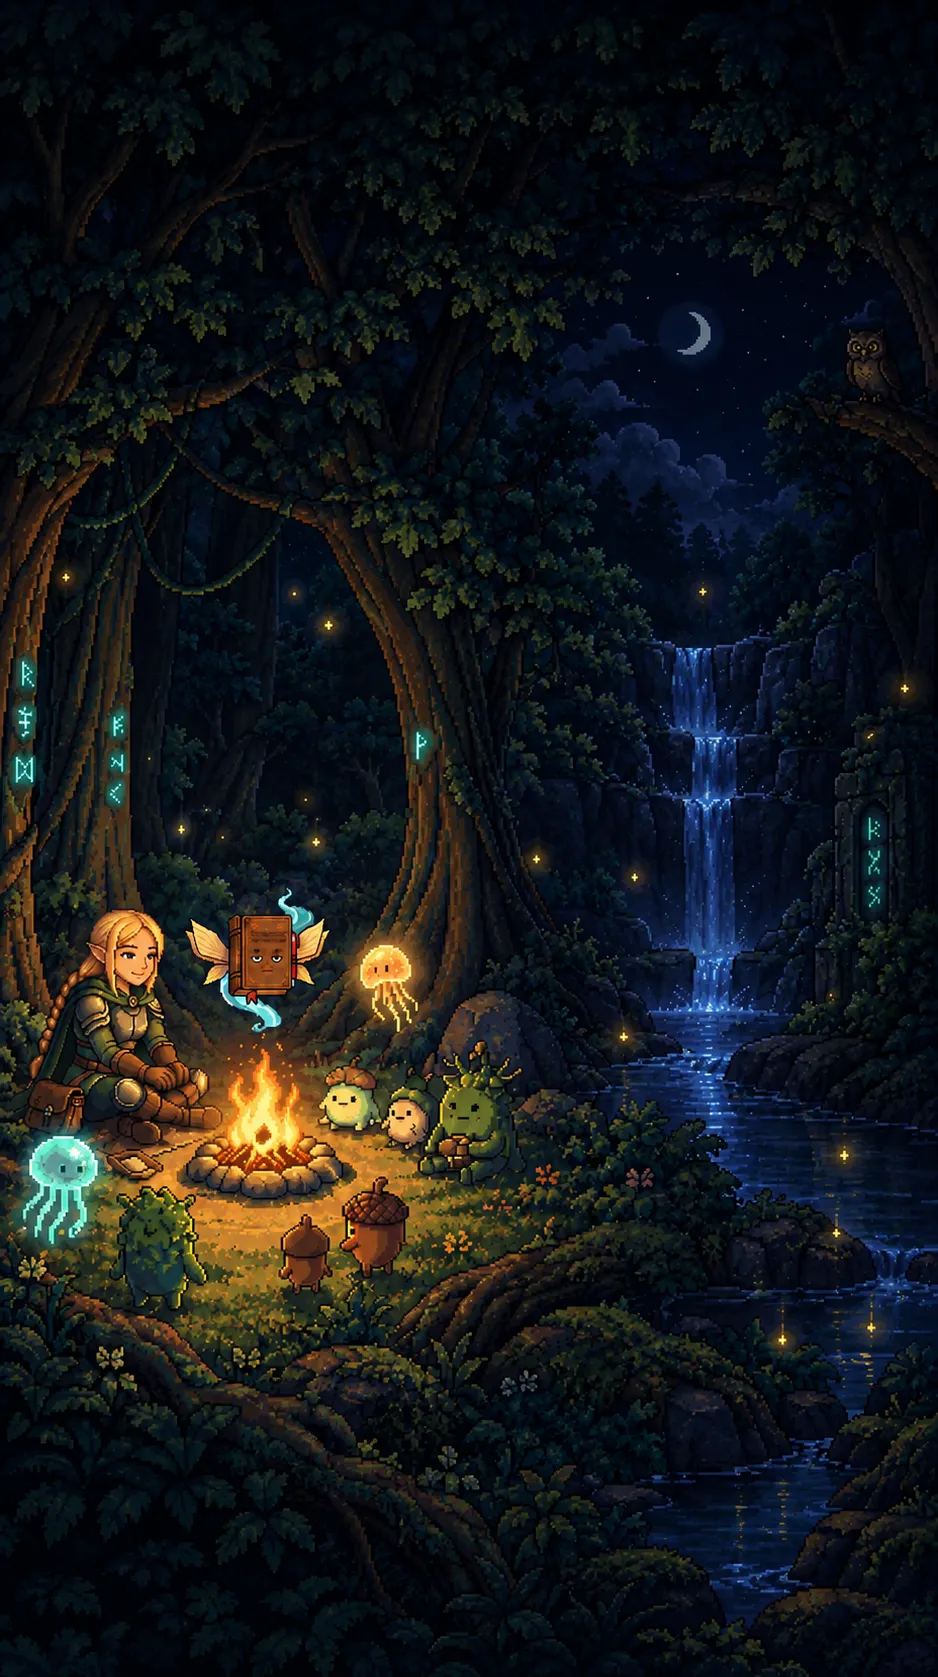
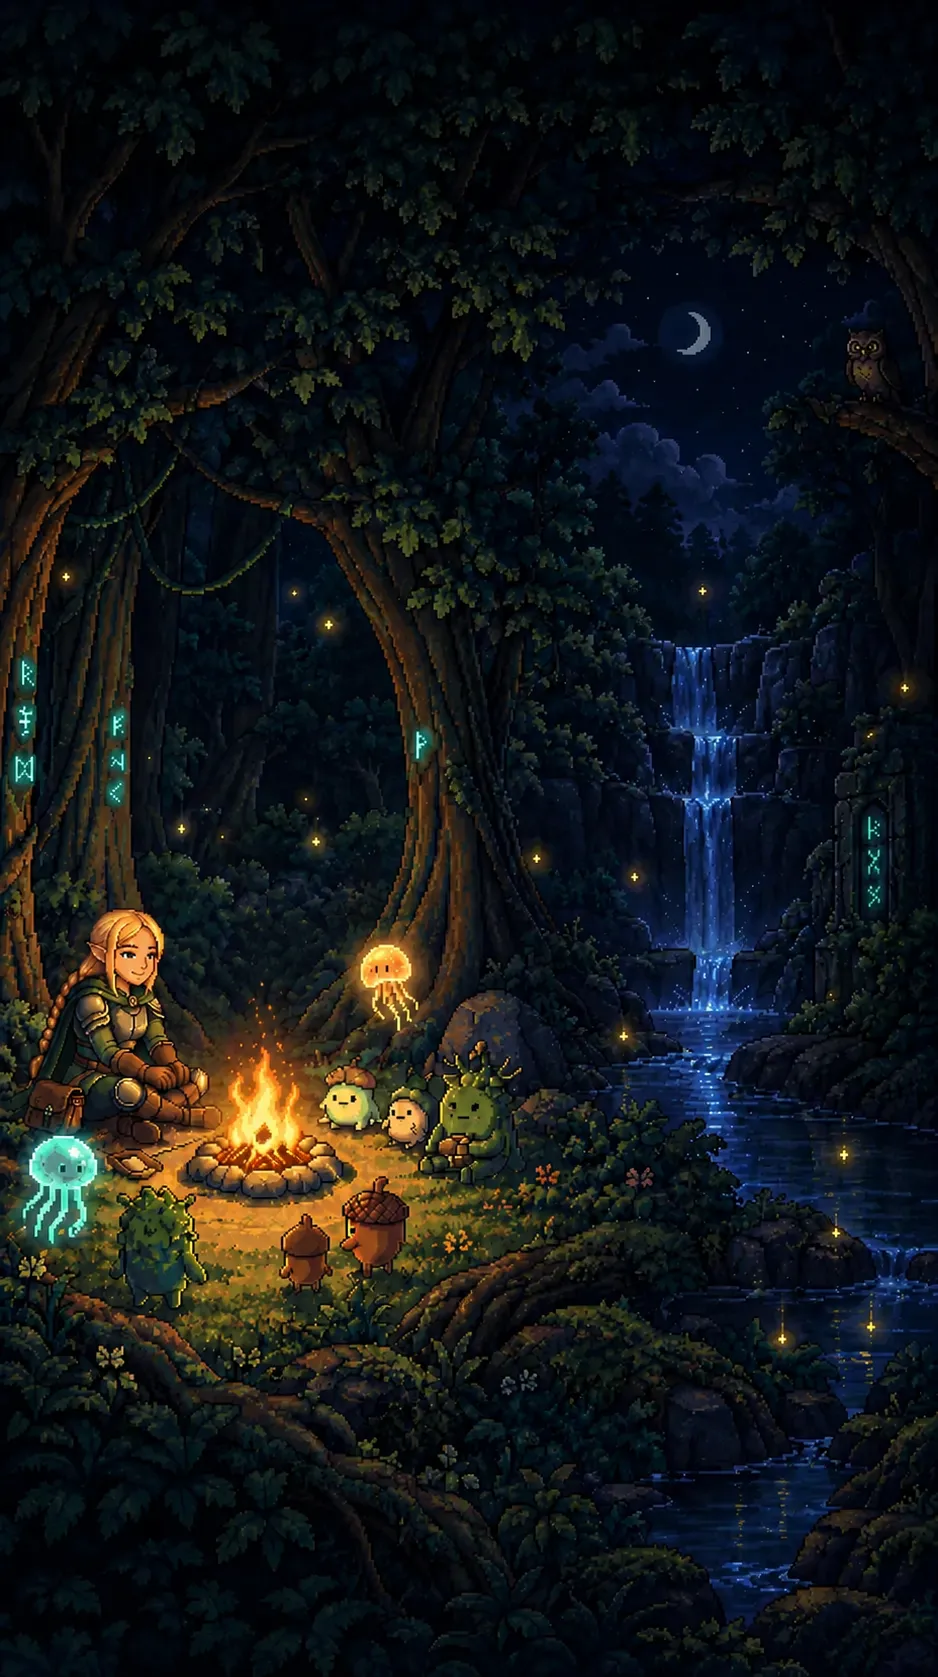
Add files via upload

diff --git a/index.html b/index.html
@@ -2397,6 +2397,120 @@
             }
         }
 
+        .camp-vignette-overlay {
+             position:absolute; top:0; left:0; right:0; bottom:0;
+             background:radial-gradient(circle at 35% 65%, transparent 25%, rgba(10,5,2,0.5) 70%, #080302 100%), linear-gradient(180deg, rgba(8,4,2,0.88) 0%, transparent 22%, transparent 70%, #080302 96%);
+             z-index:2; pointer-events:none;
+         }
+
+         /* 🔥 모닥불 실시간 일렁임 앰비언트 광원 */
+        .campfire-light-glow {
+            position: absolute;
+            /* 현재 이미지 속 모닥불의 실제 위치에 정확히 핀포인트 */
+            left: 31%;
+            top: 65%;
+            width: 140px;
+            height: 140px;
+            transform: translate(-50%, -50%);
+            border-radius: 50%;
+            /* 모닥불 중심은 밝은 노랑, 외곽은 은은한 주황/붉은 불꽃 */
+            background: radial-gradient(circle, rgba(254, 240, 138, 0.65) 0%, rgba(249, 115, 22, 0.45) 45%, rgba(220, 38, 38, 0.15) 70%, transparent 85%);
+            mix-blend-mode: screen; /* 배경 픽셀 아트 위에 자연스럽게 빛을 투과 */
+            pointer-events: none;
+            z-index: 3;
+            animation: fireFlicker 2.5s infinite ease-in-out;
+        }
+
+        /* 불꽃이 타닥타닥 타오르며 주변을 비추는 불규칙한 박동 */
+        @keyframes fireFlicker {
+            0%   { transform: translate(-50%, -50%) scale(0.95); opacity: 0.55; }
+            /* 20%  { transform: translate(-49%, -51%) scale(1.08); opacity: 0.85; } */
+            50%  { transform: translate(-51%, -50%) scale(1.15); opacity: 0.65; }
+            /* 80%  { transform: translate(-49%, -50%) scale(1.02); opacity: 0.70; } */
+            100% { transform: translate(-50%, -50%) scale(0.95); opacity: 0.55; }
+        }
+
+        /* ========================================================
+           📖 야영지 책 선생 마스코트 & 츤데레 말풍선 시스템
+           ======================================================== */
+        .camp-mrbook-container {
+            position: absolute;
+            right: 20px;
+            top: 5%; /* 현판 바로 아래, 스마트 버튼 위 */
+            z-index: 15;
+            display: flex;
+            flex-direction: column;
+            align-items: center;
+            cursor: pointer;
+            user-select: none;
+        }
+
+        /* 타이틀 책 선생 스프라이트 (날개를 파닥거리며 위아래로 부드럽게 부유하는 모션) */
+        .camp-mrbook-sprite {
+            width: 130px;
+            height: 130px;
+            object-fit: contain;
+            filter: drop-shadow(0 4px 10px rgba(0, 0, 0, 0.7)) drop-shadow(0 0 6px rgba(245, 158, 11, 0.4));
+            animation: mrBookHover 2.6s infinite ease-in-out;
+            transition: transform 0.15s ease;
+        }
+        .camp-mrbook-sprite:active {
+            transform: scale(0.88);
+        }
+
+        @keyframes mrBookHover {
+            0%, 100% { transform: translateY(0) rotate(0deg); }
+            50%      { transform: translateY(-7px) rotate(2deg); }
+        }
+
+        /* 탭했을 때 펄쩍 뛰는 탄성 애니메이션 */
+        .camp-mrbook-sprite.jump {
+            animation: mrBookJump 0.4s ease-out forwards;
+        }
+        @keyframes mrBookJump {
+            0%   { transform: translateY(0) scale(1); }
+            40%  { transform: translateY(-8px) scale(1.2) rotate(-5deg); }
+            70%  { transform: translateY(-2px) scale(0.95) rotate(3deg); }
+            100% { transform: translateY(0) scale(1) rotate(0deg); }
+        }
+
+        /* 📜 책 선생 전용 양피지 말풍선 */
+        .camp-mrbook-bubble {
+            display: none;
+            position: absolute;
+            right: 130px; /* 책 선생 왼쪽으로 돋아남 */
+            top: 30px;
+            width: 175px;
+            background: #fffbeb;
+            border: 2px solid #b45309;
+            border-radius: 12px;
+            padding: 8px 10px;
+            font-size: 12px;
+            font-weight: 800;
+            color: #451a03;
+            line-height: 1.4;
+            word-break: keep-all;
+            box-shadow: 0 4px 14px rgba(0, 0, 0, 0.7);
+            pointer-events: none;
+            animation: bubblePop 0.2s cubic-bezier(0.18, 0.89, 0.32, 1.28) forwards;
+        }
+        /* 말풍선 꼬리표 (오른쪽 책 선생을 향함) */
+        .camp-mrbook-bubble::after {
+            content: '';
+            position: absolute;
+            right: -8px;
+            top: 22px;
+            width: 0;
+            height: 0;
+            border-top: 6px solid transparent;
+            border-bottom: 6px solid transparent;
+            border-left: 8px solid #b45309;
+        }
+        @keyframes bubblePop {
+            0%   { opacity: 0; transform: scale(0.7) translateX(10px); }
+            100% { opacity: 1; transform: scale(1) translateX(0); }
+        }
+
     </style>
 </head>
 <body oncontextmenu="return false;" ondragstart="return false;">
@@ -2454,6 +2568,9 @@
             <!-- 🌌 9:16 세로 풀스크린 모닥불 배경 레이어 -->
             <div class="camp-bg-layer" style="position:absolute; top:0; left:0; right:0; bottom:0; background-image:url('images/title_fire.webp'); background-size:cover; background-position:left center; opacity:1; filter:none; z-index:1;"></div>
             <div class="camp-vignette-overlay" style="position:absolute; top:0; left:0; right:0; bottom:0; background:radial-gradient(circle at 35% 65%, transparent 25%, rgba(10,5,2,0.5) 70%, #080302 100%), linear-gradient(180deg, rgba(8,4,2,0.88) 0%, transparent 22%, transparent 70%, #080302 96%); z-index:2; pointer-events:none;"></div>
+
+            <!-- 🔥 모닥불 일렁임 광원 레이어 추가 -->
+            <div class="campfire-light-glow"></div>
 
             <!-- 캠프 콘텐츠 본체 -->
             <div class="camp-content" style="position:relative; z-index:5; width:100%; height:100%; display:flex; flex-direction:column; justify-content:space-between;">
@@ -2583,6 +2700,14 @@
 
                 <!-- 2. 중앙~우측: 🌟 2배 커진 5대 두루마리 & 9-Slice 세로 팝오버 영역 -->
                 <div class="mid-body-area" style="flex:1; position:relative; width:100%;">
+
+                    <!-- 📖 [마스코트] 둥둥 떠 있는 책 선생 & 츤데레 말풍선 -->
+                    <div class="camp-mrbook-container" onclick="triggerMrBookChat()">
+                        <img id="campMrBookSprite" class="camp-mrbook-sprite" src="images/mr.book_glitter.webp" alt="책 선생">
+                        <div id="campMrBookBubble" class="camp-mrbook-bubble">
+                            <span id="campMrBookText">야, 폰만 보지 말고 단어나 외워라!</span>
+                        </div>
+                    </div>
 
                     <!-- 팝오버 닫기용 투명 백드롭 -->
                     <div id="campPopBackdrop" class="popover-backdrop" onclick="closeCampPopovers()"></div>
@@ -4740,11 +4865,16 @@
         const maps = [];
         let currentMap = null;
 
+        let lastNetSetWords = null; // VS 직전 동의어 세트 임시 보관
+        let pendingVS = false;       // VS 대치 상태 플래그
+
         lines.forEach(line => {
             line = line.trim();
             if (!line) return;
 
             if (line.startsWith('[') && line.includes(']')) {
+                lastNetSetWords = null;
+                pendingVS = false;
                 let rawHeader = line.substring(1, line.indexOf(']')).trim();
                 let mapId = "";
                 let mapName = rawHeader;
@@ -4783,6 +4913,11 @@
             }
 
             if (currentMap) {
+                // 🌟 [net_ 영지 전용] <=> 반의어 대치 라인 단독 감지
+                if (line === '<=>') {
+                    pendingVS = true;
+                    return;
+                }
 
                 let eng = "", kor = "";
                 if (line.includes(':')) {
@@ -4797,13 +4932,48 @@
                 if (eng && kor) {
                     // 🌟 영지 ID에 'irreg'가 들어간 전용 맵에서만 형상변환 정령으로 정식 파싱!
                     const isIrregMap = currentMap.id && currentMap.id.toLowerCase().includes('irreg');
+                    // 🌟 영지 ID에 'net'이 들어간 전용 맵 감지!
+                    const isNetMap = currentMap.id && currentMap.id.toLowerCase().includes('net');
                     const parenMatch = eng.match(/(.*?)\s*\(([^)]+)\)\s*$/);
 
                     // 🌟 [다의어 감지] 뜻에 세미콜론(;)이 있으면 다의어로 분리 보관!
                     const isPoly = kor.includes(';');
                     const meanings = isPoly ? kor.split(';').map(s => s.trim()).filter(Boolean) : [];
 
-                    if (isIrregMap && parenMatch) {
+                    if (isNetMap) {
+                        // 콤마(,)로 나열된 동의어들을 각각 낱개 영단어로 분해
+                        const rawSynonyms = eng.split(',').map(s => s.trim()).filter(Boolean);
+                        const currentBatch = [];
+
+                        rawSynonyms.forEach(singleEng => {
+                            const wordItem = {
+                                eng: singleEng,
+                                kor: kor,
+                                isNet: true,
+                                synonyms: rawSynonyms.filter(s => s !== singleEng), // 나를 제외한 동의어들
+                                allSynonyms: rawSynonyms,                         // 전체 동의어 그룹
+                                antonyms: []                                      // 반의어 군집 (아래에서 매칭)
+                            };
+                            currentMap.words.push(wordItem);
+                            currentBatch.push(wordItem);
+                        });
+
+                        // 만약 직전에 VS가 있었다면 서로를 '반의어(antonyms)'로 양방향 연결!
+                        if (pendingVS && lastNetSetWords && lastNetSetWords.length > 0) {
+                            const prevEngs = lastNetSetWords.map(w => w.eng);
+                            const currEngs = currentBatch.map(w => w.eng);
+
+                            lastNetSetWords.forEach(w => { w.antonyms = currEngs; });
+                            currentBatch.forEach(w => { w.antonyms = prevEngs; });
+
+                            pendingVS = false;
+                            lastNetSetWords = null;
+                        } else {
+                            lastNetSetWords = currentBatch;
+                            pendingVS = false;
+                        }
+
+                    } else if (isIrregMap && parenMatch) {
                         const baseWord = parenMatch[1].trim();
                         const mutations = parenMatch[2].split(',').map(s => s.trim()).filter(Boolean);
                         currentMap.words.push({
@@ -9726,6 +9896,7 @@ function handleMidBossVictory() {
             "intro_book.webp",
             "intro_boss.webp",
             "intro_mr.book.webp",
+            "mr.book_glitter.webp",
             "intro_spirits.webp",
             "mr.book.webp",
             "mr.book_icon.webp",
@@ -9747,7 +9918,6 @@ function handleMidBossVictory() {
             "statusboard1.webp",
             "tier_up.webp",
             "title_fire.webp",
-            "title_fire2.webp",
             "world.webp"
         ];
         criticalImages.forEach(filename => {
@@ -10972,6 +11142,72 @@ function handleMidBossVictory() {
                 }
             }
         }, 150); // 창이 완전히 닫히는 0.15초 뒤에 깔끔하게 발음!
+    }
+
+    /* ========================================================
+       📖 책 선생 츤데레 대사 시스템 (야영지 탭 인터랙션)
+       ======================================================== */
+    const MR_BOOK_DIALOGUES = [
+        "야, 폰 보지 말고 단어나 외워라! ...아, 그럼 이 게임을 못 하나?",
+        "1등급이 거저 나오는 줄 아냐? 어서 다음 구역으로 가!",
+        "마왕 『EXAM』이 코웃음 치고 있다. 멍때리지 마라!",
+        "흠... 그래도 오늘은 좀 열심히 하네? 기특하긴 하다만, 방심은 금물이다.",
+        "안개 속에 갇힌 정령들은 방치하면 성소로 실려 간다. 틈틈이 구해둬!",
+        "키보드 1~4번 누르면 퀴즈가 광속으로 풀린다. 손가락을 쉬게 하지 마라!",
+        "내가 너 1등급 만들겠다고 이세계까지 따라왔다는 걸 잊지마!",
+        "틀린 단어는 정령의 성소에서 꼭 다시 살펴봐라. 실패도 거름이 되는 법이니까.",
+        "피곤하면 모닥불 앞에서 잠시 숨 돌리고... 자, 딱 5개만 더 보자!",
+        "꾸준한 공부. 그것만이 답이야. 꾸준히 해라!",
+        "정령들이 너한테 「진명의 각인」을 새겨줄 때까지 쉬지 않고 굴릴 거다, 각오해!",
+         "1.5초 만에 맞히면 '찰나의 공명'으로 즉시 계약 체결이다. 광속으로 골라봐!",
+         "헷갈리는 단어는 피드백 창에서 하트(💖) 꾹 눌러둬라. 성소에서 각 잡고 훈련시켜 줄 테니.",
+         "안개 속 구출전 3차까지 버텨내면 '진명의 각인'이 찍혀서 영원히 안 까먹는다!",
+         "거대 두루마리가 번쩍일 땐 이유가 있는 법이야. 군말 말고 눌러라!",
+         "구역을 정복했으면 수호령 시련까지 끝장내야 진짜 그 영지 마력을 흡수하는 거다.",
+         "포기하지마. 내가 옆에서 끝까지 멱살 잡고 1등급으로 캐리해 줄 테니까.",
+         "노력은 배신 안 한다. 내가 보증하지. 자, 다시 가자고!",
+         "'내일부터 해야지' 하는 녀석치고 내일 진짜 하는 꼴을 못 봤다.",
+         "손가락 아프다고? 실전에선 멘탈에 쥐가 난다. 멘탈 단련해라!",
+         "영어 3등급 맞고 울지 마라. 지금 네가 탭하는 그 단어가 등급을 가른다.",
+         "단어 암기는 벼락치기가 안 통해. 매일 5분씩 보는 놈이 결국 이긴다.",
+         "호주에서 쓰는 돈이 뭔 줄 아냐? ...호주머니! 크하하! ...웃었지?",
+         "소가 계단을 올라가면? ...소오름! ㅋㅋㅋ ...소름 돋았으면 그 집중력으로 출격해!",
+         "세상에서 가장 착한 사자는? ...자원봉사자. ...이런 고급 유머를 몰라보다니 안타깝군.",
+         "세상에서 제일 가난한 왕이 누군지 알아? ...최저임금. ...이제 좀 시원해졌겠지?"
+    ];
+
+    let mrBookBubbleTimer = null;
+
+    function triggerMrBookChat() {
+        Sound.click();
+
+        const sprite = document.getElementById("campMrBookSprite");
+        const bubble = document.getElementById("campMrBookBubble");
+        const textEl = document.getElementById("campMrBookText");
+        if (!sprite || !bubble || !textEl) return;
+
+        // 1. 펄쩍 뛰는 점프 모션 재생
+        sprite.classList.remove("jump");
+        void sprite.offsetWidth; // 렌더 리셋
+        sprite.classList.add("jump");
+
+        // 🌟 0.4초 점프가 끝나면 점프 클래스를 제거하여 원래의 부유(Hover) 모션으로 복귀
+        setTimeout(() => {
+            sprite.classList.remove("jump");
+        }, 400);
+
+        // 2. 랜덤 대사 추출 (직전 대사와 중복 회피)
+        const randIdx = Math.floor(Math.random() * MR_BOOK_DIALOGUES.length);
+        textEl.innerText = MR_BOOK_DIALOGUES[randIdx];
+
+        // 3. 말풍선 팝업
+        bubble.style.display = "block";
+
+        // 4. 3.2초 후 자동 닫힘 (연타 시 타이머 리셋)
+        if (mrBookBubbleTimer) clearTimeout(mrBookBubbleTimer);
+        mrBookBubbleTimer = setTimeout(() => {
+            bubble.style.display = "none";
+        }, 3200);
     }
 
 </script>
